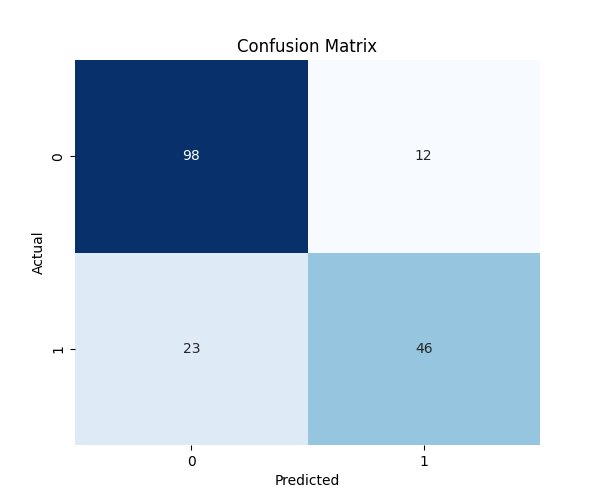
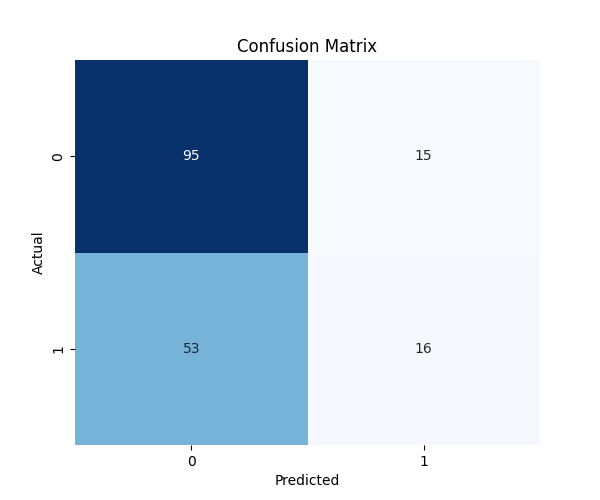
Experiment: SVC model

Changed region(s): [[0.12, 0.48, 0.9, 0.9], [0.69, 0.3, 0.72, 0.33], [0.3, 0.3, 0.33, 0.33]]

diff --git a/train.py b/train.py
@@ -1,6 +1,6 @@
 import pandas as pd
 import joblib
-from sklearn.linear_model import LogisticRegression
+from sklearn.svm import SVC
 from sklearn.metrics import accuracy_score
 
 # Load training data
@@ -9,8 +9,8 @@ train_data = pd.read_csv('data/train.csv')
 X_train = train_data.drop('Survived', axis=1)
 y_train = train_data['Survived']
 
-# Train baseline model (LogisticRegression)
-model = LogisticRegression(max_iter=1000, random_state=42)
+# Train baseline model (SVC)
+model = SVC(kernel='rbf', random_state=42)
 model.fit(X_train, y_train)
 
 # Save model
